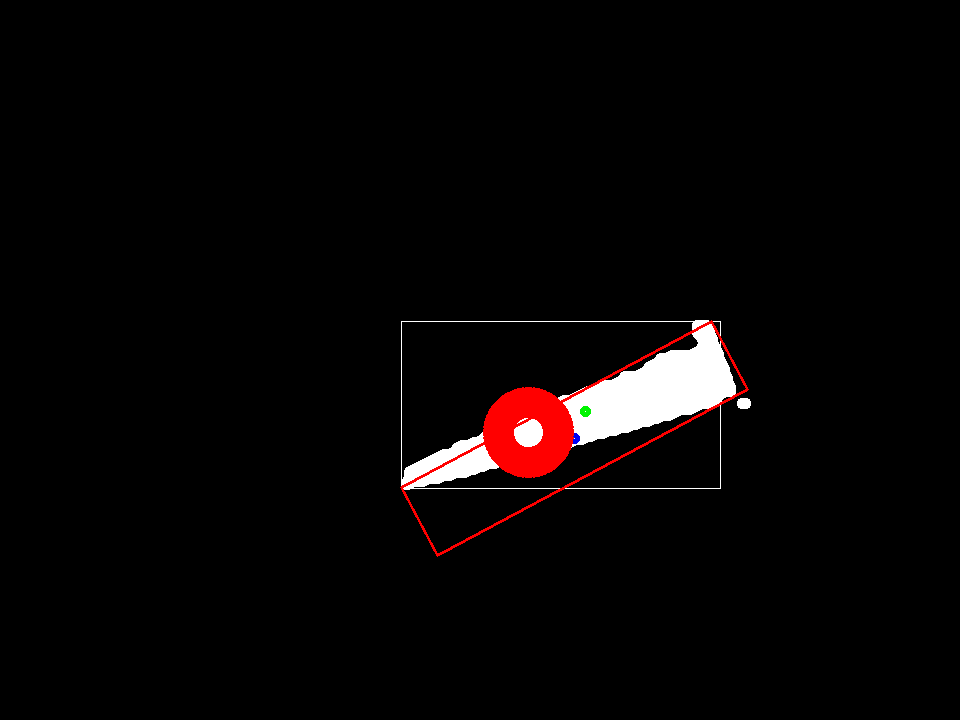
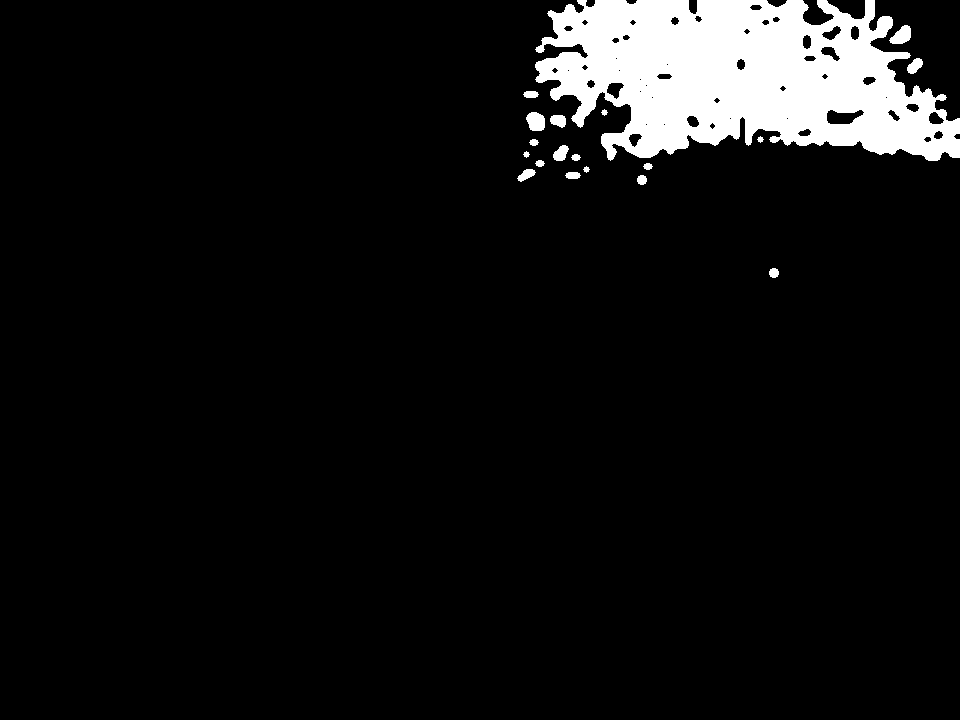
fully working

diff --git a/fullGP.py b/fullGP.py
@@ -10,6 +10,7 @@ import threading
 #from keras.models import load_model
 from networktables import NetworkTables
 
+
 NetworkTables.initialize(server='roborio-846-frc.local')
 table = NetworkTables.getTable("GamePieces")
 
@@ -19,6 +20,7 @@ print("SCRIPT: imported all necessary libs")
 # fwd= open('fwd.txt', 'r')
 total=0
 frames=0
+pyd = [0, 0, 0, 0, 0, 0, 0, 0, 0, 0, 0, 0, 0, 0, 0, 0, 0, 0, 0, 0, 0, 0, 0, 0]
 np.set_printoptions(suppress=True)
 
 #@jit(target_backend='cuda')
@@ -139,8 +141,8 @@ def run_cube(frame):
 
     if b2:
         (zx, zy), (width, height), angle  = b2[0]
-        if width/height >= 0.5 and width/height <= 2 and width*height>=100:
-            print("CUBE DETECTION: " + str(width) + "," + str(height) + " | " + str(zx) + "," + str(zy))
+        if width/height >= 0.5 and width/height <= 2 and width*height>=1000:
+            print("CUBE DETECTION: " + str(dist([zx+width/2, zx+height/2], 6.75)))
             pass
 
 
@@ -159,8 +161,8 @@ def deg2rad(n):
 def dist(point, hc):
     # hc=3.875
     hm=28
-    y=864
-    x = 1056
+    y=432
+    x = 528
     vtheta=deg2rad(33)
     htheta=deg2rad(47.92)
     am=deg2rad(56.66)
@@ -217,11 +219,13 @@ def dist(point, hc):
     total[0]=posx
     total[1]=posy
     total[2]=hc
-    return total
 
-def run_cone(frame):
+    return (total, [posy/math.cos(tx), tx])
+
+def run_cone(frame, dq):
     global total
     global frames
+    global pyd
     # try:
     k_cone=1
     k_Fwd=-0.05
@@ -233,8 +237,8 @@ def run_cone(frame):
     #result = cv.bitwise_and(frame, frame, mask = mask)
 
 #---
-    upper_orange1 = np.array([0, 227, 227])
-    upper_orange2 = np.array([34, 255, 255])
+    upper_orange1 = np.array([0, 210, 175])
+    upper_orange2 = np.array([33, 255, 255])
 
     imgThreshHigh = cv.inRange(hsv, upper_orange1, upper_orange2)
 
@@ -245,7 +249,7 @@ def run_cone(frame):
     #result = cv.bitwise_or(imgThreshLow, imgThreshHigh)
 #--
 
-    kernel = np.ones((5,5),np.uint8)
+    kernel = np.ones((3,3),np.uint8)
 
     result = cv.erode(result, kernel, iterations = 3)
     result = cv.dilate(result, kernel, iterations = 2)
@@ -299,100 +303,101 @@ def run_cone(frame):
         approx_contours.append(approx)
 
     approx_contours = sorted(approx_contours, key=lambda c: cv.contourArea(c), reverse=True)
-    approx_contours = [approx_contours[0]]
+    pyd_tp = [0, -1]
+    if (len(approx_contours)):
+        approx_contours = [approx_contours[0]]
 
 
 
-    all_convex_hulls = []
-    for ac in approx_contours:
-        all_convex_hulls.append(cv.convexHull(ac))
+        all_convex_hulls = []
+        for ac in approx_contours:
+            all_convex_hulls.append(cv.convexHull(ac))
 
 
-    convex_hulls_3to10 = []
-    for ch in all_convex_hulls:
-        if 3 <= len(ch) <= 6:
-            convex_hulls_3to10.append(cv.convexHull(ch))
+        convex_hulls_3to10 = []
+        for ch in all_convex_hulls:
+            if 3 <= len(ch) <= 5:
+                convex_hulls_3to10.append(cv.convexHull(ch))
 
-    cones = []
-    bounding_rects = []
-    b2 = []
-    for ch in convex_hulls_3to10:
-        #if convex_hull_pointing_up(ch):
-        cones.append(ch)
-        rect = cv.boundingRect(ch)
-        bounding_rects.append(rect)
-        b2.append(cv.minAreaRect(ch))
+        cones = []
+        bounding_rects = []
+        b2 = []
+        for ch in convex_hulls_3to10:
+            #if convex_hull_pointing_up(ch):
+            cones.append(ch)
+            rect = cv.boundingRect(ch)
+            bounding_rects.append(rect)
+            b2.append(cv.minAreaRect(ch))
 
-    dims = bounding_rects[0]
-    y_copy_result = fake_e_result[dims[1]:(dims[1]+dims[3]), (dims[0]):(dims[0]+dims[2])]
+        if bounding_rects:
 
-    cv.rectangle(fake_e_result, (bounding_rects[0][0], bounding_rects[0][1]), (bounding_rects[0][0]+bounding_rects[0][2], bounding_rects[0][1]+bounding_rects[0][3]), (255, 255, 255), 1)
+            dims = bounding_rects[0]
+            y_copy_result = fake_e_result[dims[1]:(dims[1]+dims[3]), (dims[0]):(dims[0]+dims[2])]
 
-    box=cv.boxPoints(b2[0])
+            cv.rectangle(fake_e_result, (bounding_rects[0][0], bounding_rects[0][1]), (bounding_rects[0][0]+bounding_rects[0][2], bounding_rects[0][1]+bounding_rects[0][3]), (255, 255, 255), 1)
 
-    boxCenter=((box[0][0]+box[2][0])/2, (box[0][1]+box[2][1])/2)
+            box=cv.boxPoints(b2[0])
 
-    mask = y_copy_result[:, :, 2] != 0
+            boxCenter=((box[0][0]+box[2][0])/2, (box[0][1]+box[2][1])/2)
 
-
-    mean_position = np.mean(np.argwhere(mask), axis=0)
-    mean_position=(mean_position[0]+dims[1], mean_position[1]+dims[0])
+            mask = y_copy_result[:, :, 2] != 0
 
 
-    verticalWeightage= (mean_position[0]-boxCenter[1])/b2[0][1][1]
-    horizontalWeightage= (mean_position[1]-boxCenter[0])/b2[0][1][0]
-
-    fake_e_result = cv.circle(fake_e_result, (int(boxCenter[0]), int(boxCenter[1])), 3, (244, 0, 0), 3)
-    fake_e_result = cv.circle(fake_e_result, (int(mean_position[1]), int(mean_position[0])), 3, (0, 244, 0), 3)
-    fake_e_result=cv.circle(fake_e_result, (528, 432), 30, (0, 0, 255), 30)
-    fake_e_result=cv.drawContours(fake_e_result, [np.int0(cv.boxPoints(b2[0]))], 0, (0, 0, 255), 2)
-    print(str(len(np.array(result))), "   ", str(len(np.array(result)[0])))
-    # print(boxCenter)
-
-    cv.imwrite('e_result.png', fake_e_result)
-    cv.imshow('e_result.png', fake_e_result)
+            mean_position = np.mean(np.argwhere(mask), axis=0)
+            mean_position=(mean_position[0]+dims[1], mean_position[1]+dims[0])
 
 
+            verticalWeightage= (mean_position[0]-boxCenter[1])/b2[0][1][1]
+            horizontalWeightage= (mean_position[1]-boxCenter[0])/b2[0][1][0]
+
+            
+            #print(str(len(np.array(result))), "   ", str(len(np.array(result)[0])))
+
+            cv.imwrite('e_result.png', fake_e_result)
 
 
+            if b2:
+                (zx, zy), (width, height), angle  = b2[0]
+                if width/height >= 0.2 and width/height <= 5 and width*height>=2500:
+                    pyd_tp[0] = 1
+                    # print(bounding_rects[0][2]/bounding_rects[0][3])
+                    base_length=0 
+                    orientation=0
+                    if convex_hull_pointing_up(cones[0], b2[0]):
+                        orientation=0
+                    elif not(verticalWeightage>0.05) and convex_hull_side(cones[0], bounding_rects[0]):
+                        orientation=1
+                    elif verticalWeightage<k_Fwd:  
+                        orientation=2
+                    else:
+                        orientation=3
+                    if orientation==1:
+                        base_length=height
+                    else:
+                        base_length=width
+                    pyd_tp[1]=orientation
+                    print("CONE DETECTION: ", str(dist(mean_position, 4 if orientation!=0 else 7)), orientation)
 
-    if b2:# and coneis==1:
-        (zx, zy), (width, height), angle  = b2[0]
-        if width/height >= 0.2 and width/height <= 5 and width*height>=25:
-            # print(bounding_rects[0][2]/bounding_rects[0][3])
-            base_length=0 
-            orientation=0
-            if verticalWeightage>0.05 and not(convex_hull_side(cones[0], bounding_rects[0])):
-                orientation=0
-            elif not(verticalWeightage>0.05) and convex_hull_side(cones[0], bounding_rects[0]):
-                orientation=1
-            elif verticalWeightage<k_Fwd:  
-                orientation=2
-            else:
-                orientation=3
-            if orientation==1:
-                base_length=height
-            else:
-                base_length=width
-            print("CONE DETECTION: ", str(dist(mean_position, 4)))
-
-            total+=verticalWeightage
-            frames+=1
-            distance = base_length*k_cone
-            angle=52.29*(122-zx)/122            
-            table.putNumber("coneDistance", distance)
-            table.putNumber("coneAngle", angle)
-            table.putNumber("coneOrientation", orientation)
-            return
-    table.putNumber("coneDistance", 0)
-    table.putNumber("coneAngle", 0)
-    table.putNumber("coneProbability", 0)
-    # print('xcfghjkgfdfghjkl', cones[0])
-    cv.drawContours(result, cones, 0, (255, 255, 255), 3)
-    cv.imwrite('awf.png', result)
-    # except Exception as e:
-    #     print(e)
-    
+                    total+=verticalWeightage
+                    frames+=1
+                    distance = base_length*k_cone
+                    angle=52.29*(122-zx)/122            
+                    table.putNumber("coneDistance", distance)
+                    table.putNumber("coneAngle", angle)
+    pyd.insert(0, pyd_tp)
+    pyd.pop(-1)
+    norm_is = [c[0]/24 for c in pyd]
+    ori_max = []
+    for elem in pyd:
+        if elem[1] != -1:
+            ori_max.append(elem[1])
+    if not len(ori_max):
+        ori_max.append(-1)
+    table.putNumber("coneProbability", sum(norm_is))
+    table.putNumber("coneOrientation", round(sum(ori_max)/len(ori_max)))
+        # except Exception as e:
+        #     print(e)
+        
 
 
 #cuda R function
@@ -414,23 +419,18 @@ def CUDA_OPTIMIZED_RUN846():
     counter = 0
     otime = time.time()
     if cap.isOpened():
-        t1 = threading.Thread(target=run_cone, args=(cap,))
-        t2 = threading.Thread(target=run_cube, args=(cap,))
-        t1.start()
-        t2.start()
+        dq = []
         while(True):
             counter+=1
             # frame = cv.imread('cone.jpg')
             _, frame = cap.read()
-            #---------CUBE-------
-            t1 = threading.Thread(target=run_cone, args=(frame,))
+            t1 = threading.Thread(target=run_cone, args=(frame,dq))
             t2 = threading.Thread(target=run_cube, args=(frame,))
             t1.start()
             t2.start()
             t1.join()
             t2.join()
 
-            #---------CONE-------
 
             if counter % 10 == 0:
                 counter = 0
